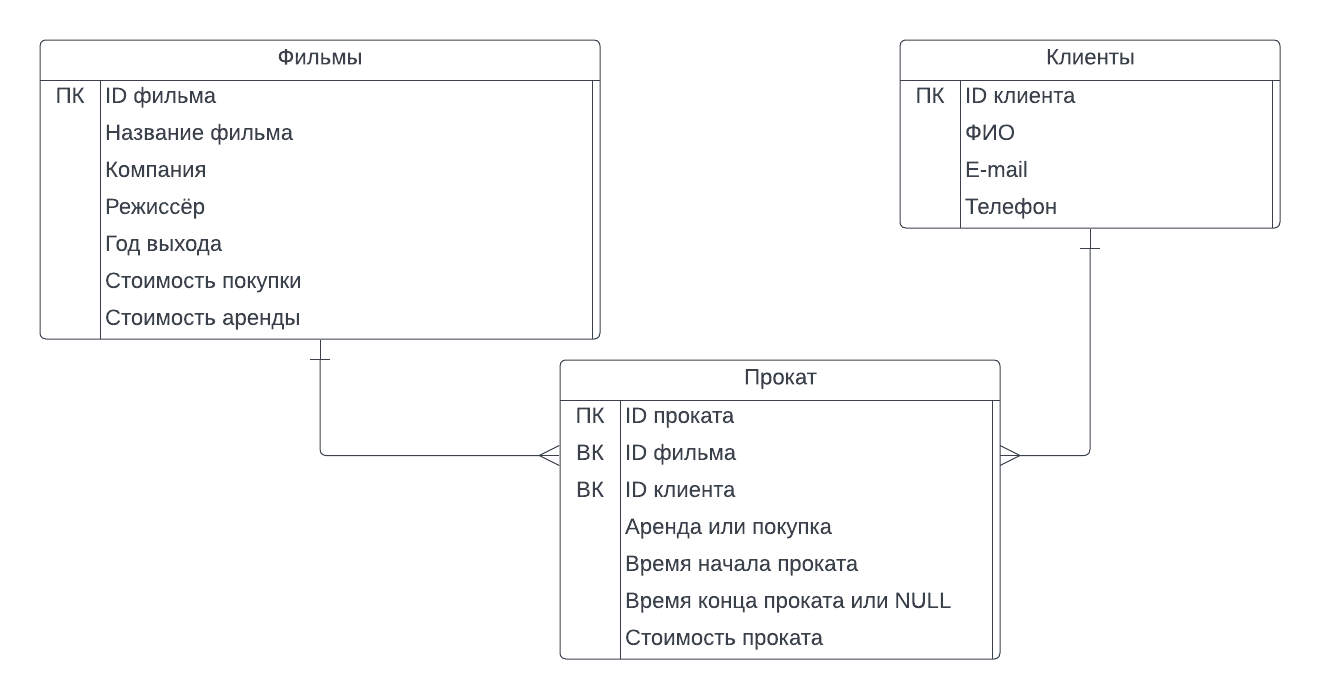
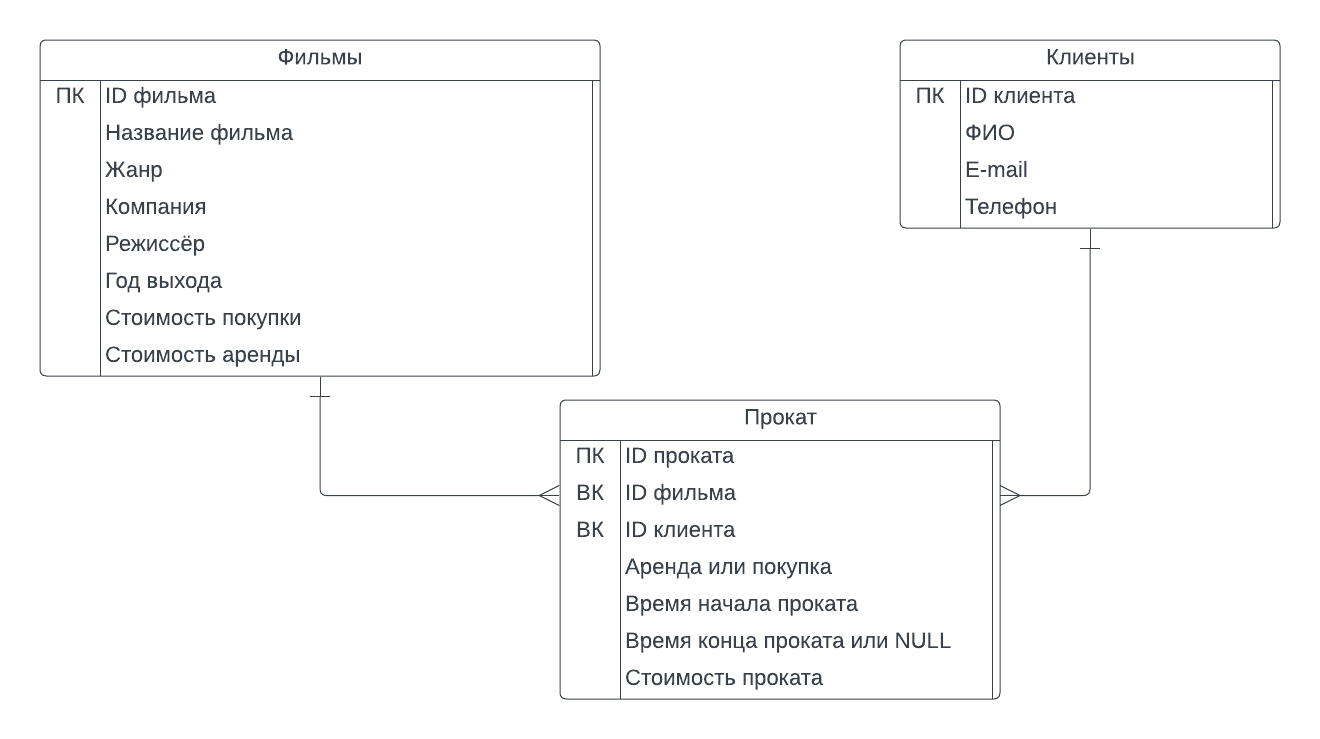
Updated db_layout.png + added "genre" column

Changed region(s): [[0.0311, 0.03, 0.7455, 0.9614], [0.6833, 0.03, 0.9629, 0.3305], [0.7455, 0.6309, 0.7765, 0.691]]

diff --git a/README.md b/README.md
@@ -1,6 +1,4 @@
 
-[//]: # (TODO: correct PNGs to include 'genre')
-
 # Web-практикум: Видеопрокат (стриминг)
 
 ВМК МГУ, 6 семестр
